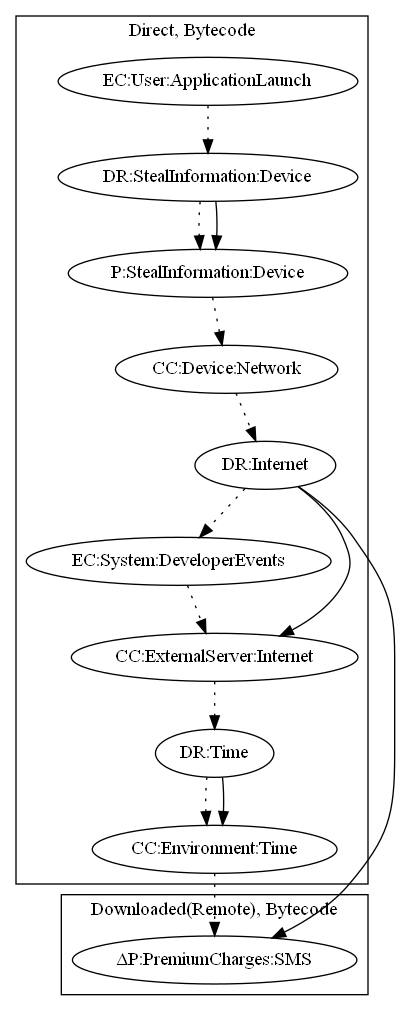
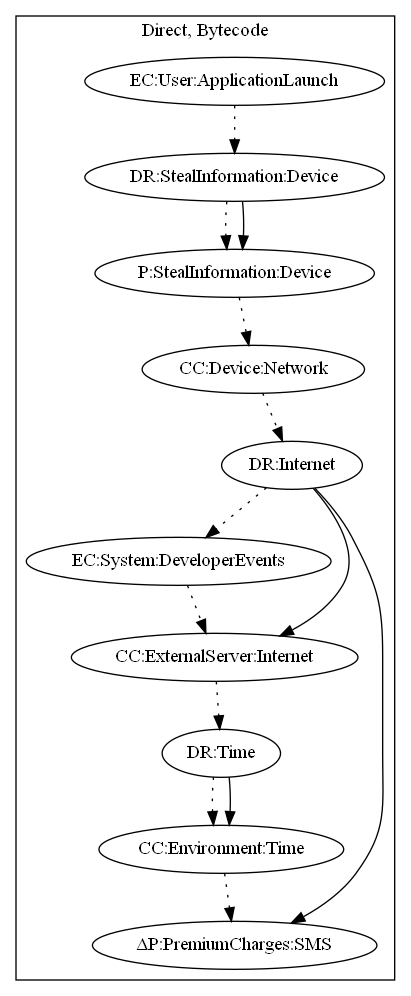
update website

Changed region(s): [[0.03, 0.0, 0.99, 0.996], [0.84, 0.249, 0.87, 0.2801]]

diff --git a/docs/signatures/bkotlindhrx.md b/docs/signatures/bkotlindhrx.md
@@ -15,7 +15,7 @@ nav_exclude: true
 * File Hash (SHA-256): 621092856e20e628a577dbe9248649eae78d1af611d9168635b22057c6c7552b
 * Blog: https://blog.trendmicro.com/trendlabs-security-intelligence/first-kotlin-developed-malicious-app-signs-users-premium-sms-services/, https://blog.malwarebytes.com/cybercrime/mobile/2018/02/mobile-menace-monday-first-kotlin-developed-malicious-app/
 
-This malware sample aims to load a payload which performs premium charges based on WAP Billing. On launch of the application, the sample leaks device information (e.g., Device ID) to the server. It then checks the network connectivity of the device, and retrieves from the server a payload with commands. Lastly, the app checks whether a certain amount of time has passed before loading the payload to perform premium charges.
+This malware sample aims to load a payload which performs premium charges based on WAP Billing. On launch of the application, the sample leaks device information (e.g., Device ID) to the server. It then checks the network connectivity of the device, and retrieves from the server a payload with commands. Lastly, the app checks whether a certain amount of time has passed before sending text messages to perform premium charges.
 
 ## Signature
 ---
